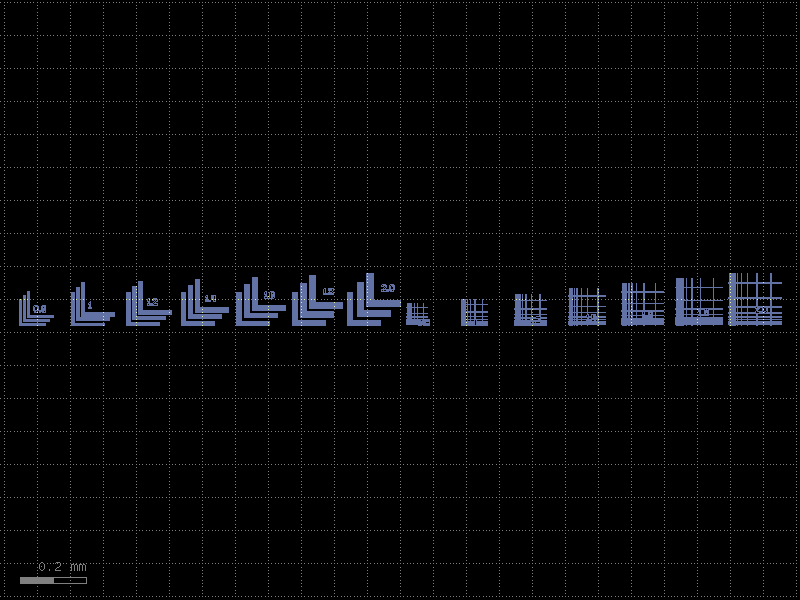
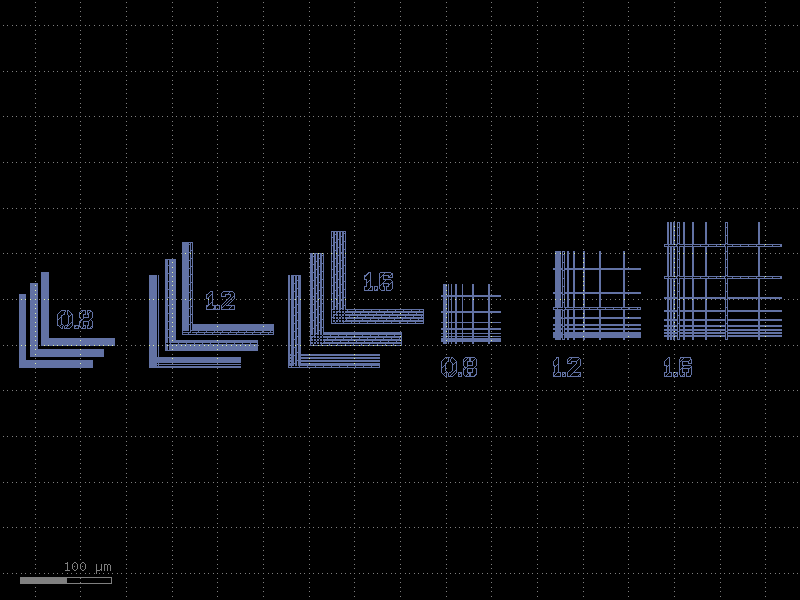
fix waffle text after update to compass

diff --git a/src/qnngds/test_structures.py b/src/qnngds/test_structures.py
@@ -234,9 +234,7 @@ def _create_waffle(
     WAFFLE << gf.boolean(W, WOut, "-", layer=layer)
 
     text = WAFFLE << gf.components.texts.text(str(res), size=20, layer=layer)
-    start = (text.xmin, text.ymax)
-    dy = -min(20, 20 * res)
-    text.move(start, (0, dy))
+    text.move((text.xmin, text.ymax), (W.xmin, W.ymin - min(20, 20 * res)))
 
     WAFFLEu = gf.Component()
     WAFFLEu << qg.utilities.union(WAFFLE)
@@ -285,7 +283,7 @@ def _create_3L(res: Union[float, int] = 1, layer: LayerSpec = (1, 0)) -> gf.Comp
 
 @gf.cell
 def resolution_test(
-    resolutions: List[float] = [0.8, 1, 1.2, 1.4, 1.6, 1.8, 2.0],
+    resolutions: List[float] = [0.8, 1.2, 1.6],
     outline: Optional[float] = None,
     layer: LayerSpec = (2, 0),
 ) -> gf.Component:
